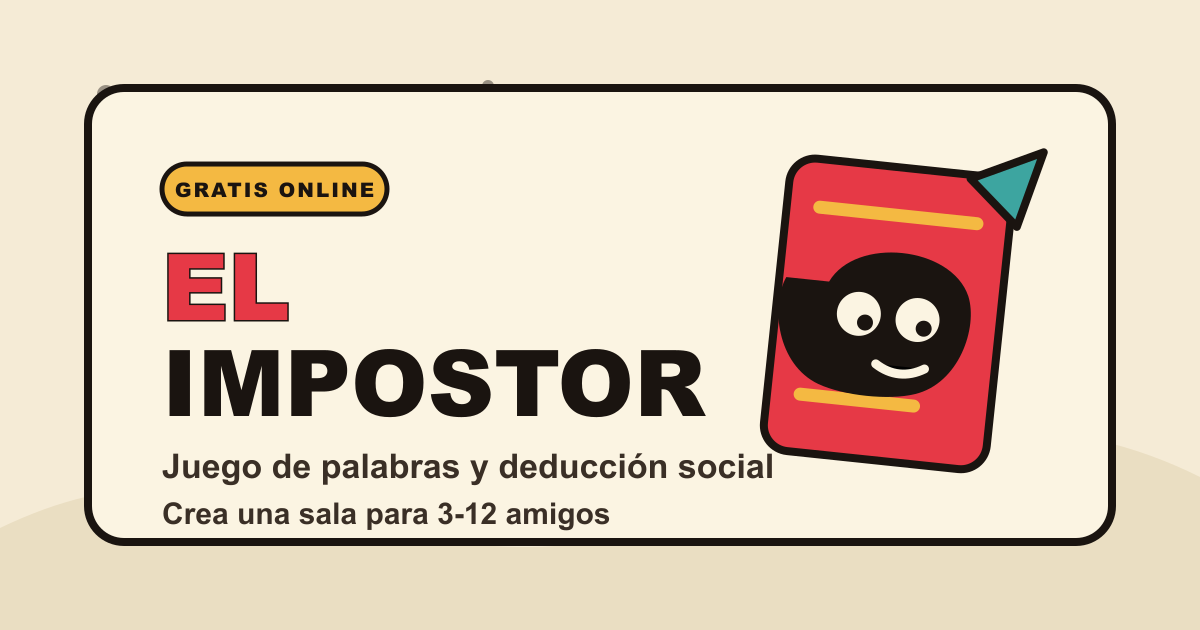
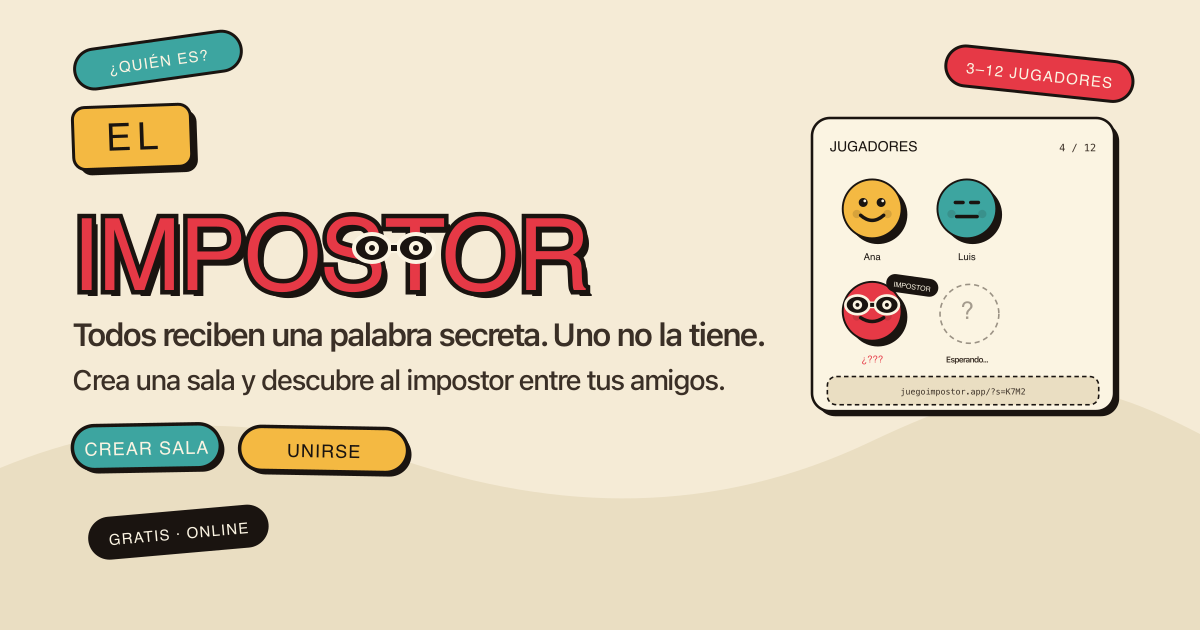
fix: update project image format for "El Impostor" from PNG to SVG

diff --git a/src/components/Projects/Projects.tsx b/src/components/Projects/Projects.tsx
@@ -30,7 +30,7 @@ const projectData: Project[] = [
     description:
       "An online social deduction word game for 3-12 friends. Players create private rooms, share a code, take timed turns, vote, and try to uncover who does not know the secret word.",
     technologies: ["React", "Vite", "Cloudflare Workers", "Durable Objects"],
-    imageUrl: "/img/el-impostor.png",
+    imageUrl: "/img/el-impostor.svg",
     liveUrl: "https://juegoimpostor.app/",
     githubUrl: "https://github.com/jvallejoarguez/el_Impostor",
   },